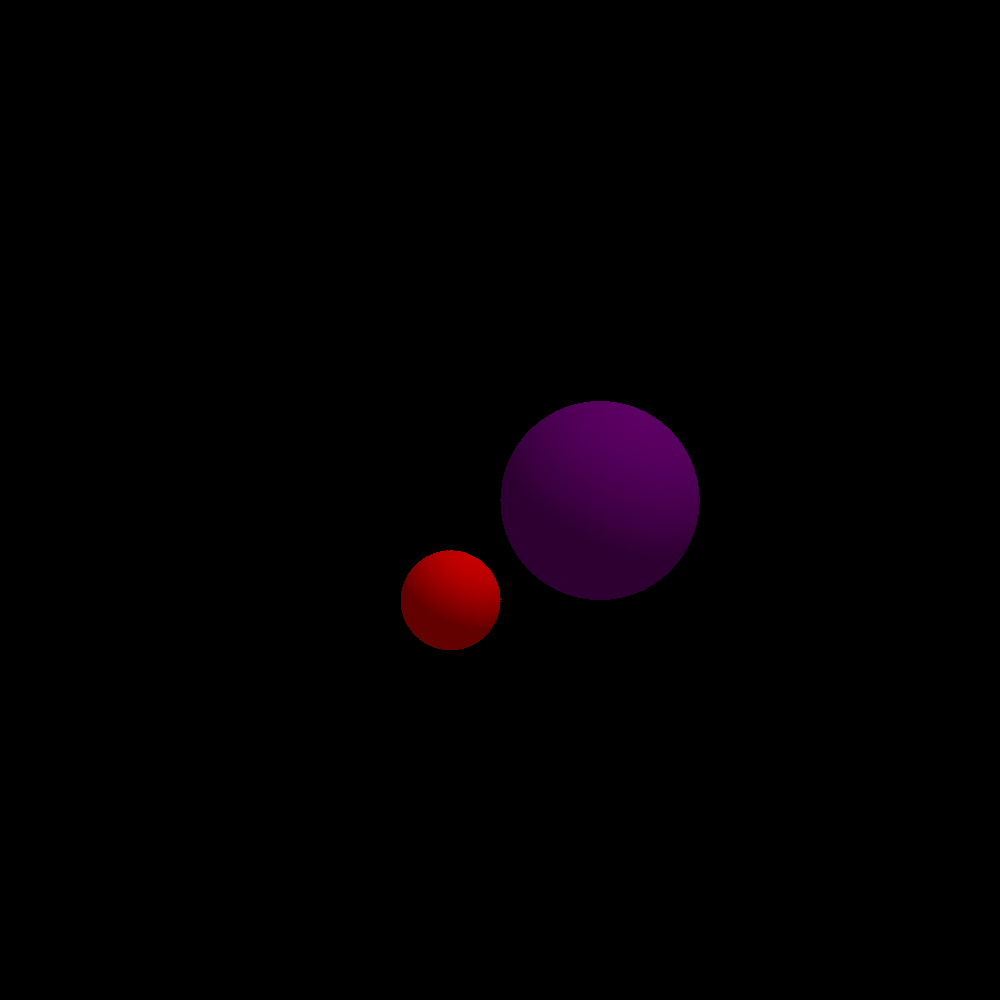
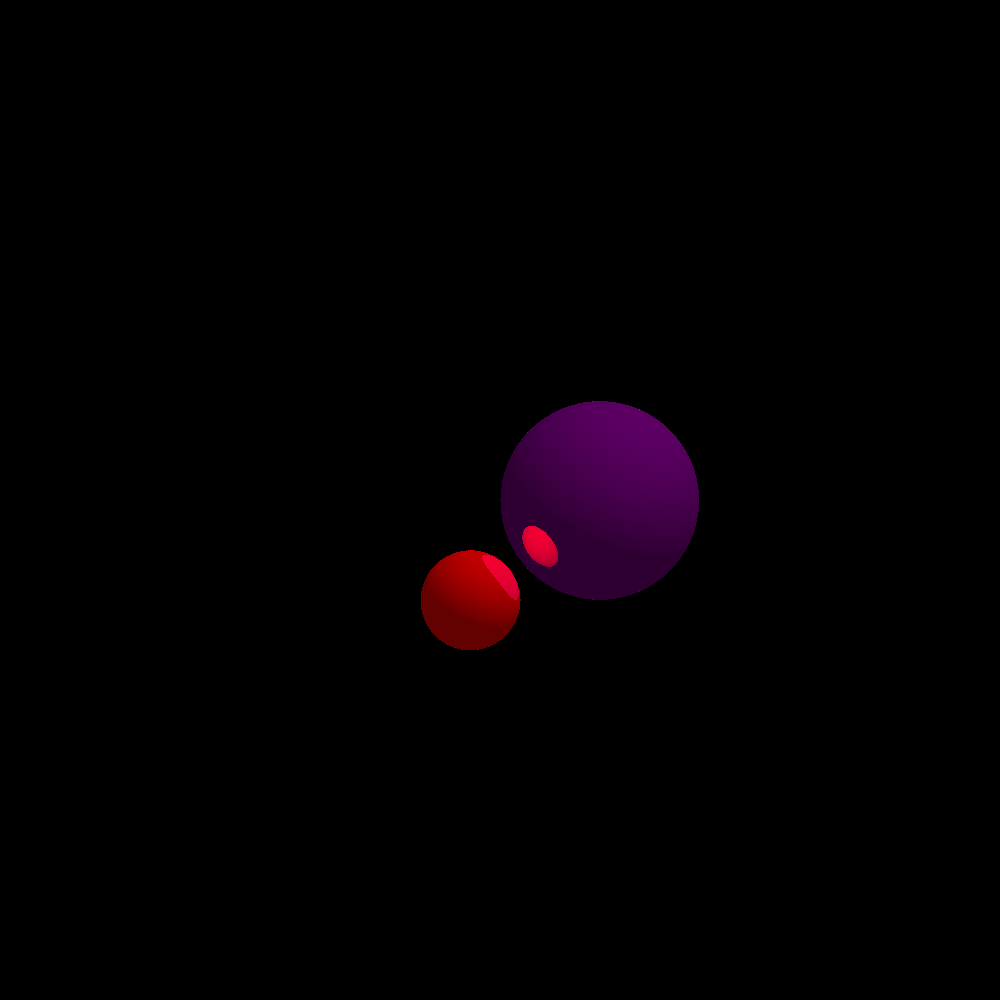
fix: the reflection had a display bug

Changed region(s): [[0.403, 0.527, 0.558, 0.651]]

diff --git a/src/plugins/Vanille/ApplyReflections.process.v.cpp b/src/plugins/Vanille/ApplyReflections.process.v.cpp
@@ -25,14 +25,15 @@ extern "C" {
                 for (auto &r : rdr.getCamera()->getRays()) {
                     r.setRecursionParameter("reflectionDepth", reflectionDepth);
                 }
-                rdr.getCamera()->getRays()[0].getRecursionParameter("reflectionDepth");
-                std::string a;
-                std::cin >> a;
             },
 
             [](render::Ray &ray, const render::Renderer &rdr) -> render::Ray & {
-                if (ray.getRecursionParameter("reflectionDepth") <= 0 || !ray.hasIntersections())
+                if (ray.getRecursionParameter("reflectionDepth") <= 0)
                     return ray;
+                if (!ray.hasIntersections()) {
+                    ray.setColor(ray.blendLerp(sf::Color::Black, 0.1f));
+                    return ray;
+                }
                 auto intersection = ray.getIntersections()[0];
                 float reflectivity = intersection.getInterceptee()->getMaterial()->getProperty("reflectivity");
                 if (reflectivity <= 0)
@@ -40,9 +41,10 @@ extern "C" {
                 sf::Vector3f normal = intersection.getNormal();
                 sf::Vector3f direction = ray.getDirection();
                 sf::Vector3f reflection = direction - 2.0f * normal * (normal.x * direction.x + normal.y * direction.y + normal.z * direction.z);
-                sf::Vector3f origin = intersection.getPoint() + reflection * 0.001f;
+                sf::Vector3f origin = intersection.getPoint() + reflection * 0.1f;
 
                 render::Ray newRay(origin, reflection, ray.getRecursionParameter("reflectionDepth") - 1);
+                newRay.setRecursionParameter("reflectionDepth", ray.getRecursionParameter("reflectionDepth") - 1);
                 dynamic_cast<vanille::Wrapper_v *>(&(rdr.getWrapper()))->processRay(newRay, rdr);
                 sf::Color reflColor = newRay.getColor();
                 reflColor = (sf::Color) {
@@ -50,7 +52,8 @@ extern "C" {
                     static_cast<sf::Uint8>(reflColor.g * reflectivity),
                     static_cast<sf::Uint8>(reflColor.b * reflectivity)
                 };
-                ray.blendColor(reflColor);
+                ray.setColor(ray.blendLerp(reflColor, reflectivity));
+                // ray.setColor(ray.blendAdd(reflColor));
                 return ray;
             },
 

diff --git a/src/Ray.cpp b/src/Ray.cpp
@@ -130,18 +130,27 @@ namespace render {
         _color = color;
     }
 
-    // sf::Color Ray::blendAdd(const sf::Color &color) const
-    // {
-    //     int r = color.r + _color.r;
-    //     int g = color.g + _color.g;
-    //     int b = color.b + _color.b;
-    //     sf::Color final = {
-    //         static_cast<sf::Uint8>((r > 255) ? 255 : r),
-    //         static_cast<sf::Uint8>((g > 255) ? 255 : g),
-    //         static_cast<sf::Uint8>((b > 255) ? 255 : b)
-    //     };
-    //     return final;
-    // }
+    sf::Color Ray::blendAdd(const sf::Color &color) const
+    {
+        int r = color.r + _color.r;
+        int g = color.g + _color.g;
+        int b = color.b + _color.b;
+        sf::Color final = {
+            static_cast<sf::Uint8>((r > 255) ? 255 : r),
+            static_cast<sf::Uint8>((g > 255) ? 255 : g),
+            static_cast<sf::Uint8>((b > 255) ? 255 : b)
+        };
+        return final;
+    }
+
+    sf::Color Ray::blendLerp(const sf::Color &color, float t) const {
+        sf::Color final = {
+            static_cast<sf::Uint8>((_color.r * (1 - t)) + (color.r * t)),
+            static_cast<sf::Uint8>((_color.g * (1 - t)) + (color.g * t)),
+            static_cast<sf::Uint8>((_color.b * (1 - t)) + (color.b * t))
+        };
+        return final;
+    }
 
     // bool Ray::isShadowed(const Renderer &rdr, sf::Vector3f lightPos, sf::Vector3f intersection)
     // {

diff --git a/src/plugins/Vanille/Sphere.primitive.v.cpp b/src/plugins/Vanille/Sphere.primitive.v.cpp
@@ -38,12 +38,17 @@ namespace vanille {
             return;
 
         float sqrtDelta = std::sqrt(delta);
-        ray.addIntersection(
-            render::Intersection(_parent, ray, (-b - sqrtDelta) / (2 * a))
-        );
-        ray.addIntersection(
-            render::Intersection(_parent, ray, (-b + sqrtDelta) / (2 * a))
-        );
+        float t1 = (-b - sqrtDelta) / (2 * a);
+        float t2 = (-b + sqrtDelta) / (2 * a);
+
+        if (t1 > 0)
+            ray.addIntersection(
+                render::Intersection(_parent, ray, t1)
+            );
+        if (t2 > 0)
+            ray.addIntersection(
+                render::Intersection(_parent, ray, t2)
+            );
     }
 
     sf::Vector3f SpherePrimitive_v::getNormalAt(sf::Vector3f &point)

diff --git a/src/plugins/Vanille/ApplyIntersect.process.v.cpp b/src/plugins/Vanille/ApplyIntersect.process.v.cpp
@@ -24,6 +24,9 @@ extern "C" {
                 std::sort(intersections.begin(), intersections.end(), [](const render::Intersection &a, const render::Intersection &b) {
                     return a.getDistance() < b.getDistance();
                 });
+                if (intersections.size() > 0 && intersections[0].getDistance() < 0.1) {
+                    intersections.erase(intersections.begin());
+                }
                 if (intersections.size() > 0) {
                     ray.setColor(intersections[0].getColor());
                 }

diff --git a/src/Ray.hpp b/src/Ray.hpp
@@ -83,6 +83,7 @@ namespace render {
             sf::Color blendMultiply(const sf::Color &color) const;
             sf::Color blendAdd(const sf::Color &color) const;
             sf::Color blendColor(const sf::Color &color) const;
+            sf::Color blendLerp(const sf::Color &color, float t) const;
 
             void setRecursionParameter(const std::string &name, int initialValue);
             int getRecursionParameter(const std::string &name) const;

diff --git a/src/Renderer.hpp b/src/Renderer.hpp
@@ -37,6 +37,7 @@ namespace render {
             void setAmbientLight(const sf::Color &color);
             void addLight(std::shared_ptr<ILight> light);
 
+            std::shared_ptr<Camera> getCamera() const;
             std::shared_ptr<Camera> getCamera();
             sf::Color getAmbientLight() const;
             std::vector<std::shared_ptr<ILight>> getLights() const;

diff --git a/src/plugins/Vanille/Wrapper.v.cpp b/src/plugins/Vanille/Wrapper.v.cpp
@@ -18,12 +18,12 @@ namespace vanille {
     }
 
     Wrapper_v::~Wrapper_v() {
-        std::cout << "destroying wrapper" << std::endl;
     }
 
     void Wrapper_v::init(render::PluginManager &pm, render::Renderer &rdr) const
     {
         std::vector<render::init_t> initFuns = pm.getInitFunctions();
+
         for (auto &fun : initFuns)
             fun(rdr);
     }

diff --git a/src/Renderer.cpp b/src/Renderer.cpp
@@ -47,6 +47,13 @@ namespace render {
         return _camera;
     }
 
+    std::shared_ptr<Camera> Renderer::getCamera() const
+    {
+        if (_camera == nullptr)
+            throw std::runtime_error("No camera set");
+        return _camera;
+    }
+
     void Renderer::setAmbientLight(const sf::Color &color)
     {
         _ambientLight = color;

diff --git a/src/Camera.hpp b/src/Camera.hpp
@@ -61,6 +61,7 @@ namespace render
          * @return std::vector<render::Ray>&
          */
         std::vector<render::Ray> &getRays();
+        std::vector<render::Ray> getRays() const;
 
         /**
          * @brief Sets the position of the camera in the 3D space.

diff --git a/src/Camera.cpp b/src/Camera.cpp
@@ -71,6 +71,11 @@ namespace render {
         return _focalPoint;
     }
 
+    std::vector<render::Ray> Camera::getRays() const
+    {
+        return _rays;
+    }
+
     std::vector<render::Ray> &Camera::getRays()
     {
         return _rays;
